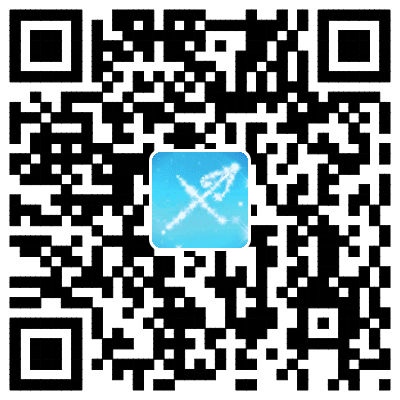
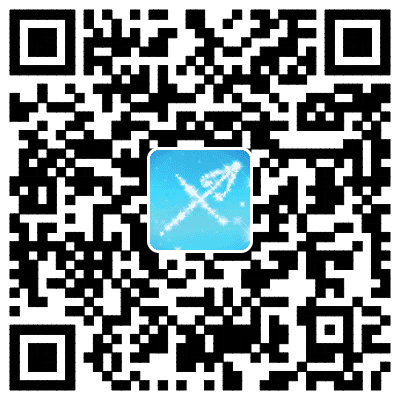
修改阳光电影下载地址二维码

diff --git a/MovieHeaven/download.html b/MovieHeaven/download.html
@@ -7,20 +7,20 @@
   <div style="text-align: center;">
     <h2>阳光电影Android客户端下载</h2>
 
-    <p id="notice">
+    <p id="notice" style="display: none;">
       请点击右上角的菜单，选择“在浏览器中打开”，之后就可以下载啦！
     </p>
 
     <p>这是电影天堂的非官方Android客户端，通过解析其网页获取影片数据，提供了自定义菜单、搜索、收藏影片等功能。项目源代码托管于<a href="https://github.com/lingzhuzi/MovieHeaven/">Github</a>。</p>
 
-    <h2 id="btn_download"><a href="https://raw.githubusercontent.com/lingzhuzi/MovieHeaven/master/release/MovieHeaven.apk">立即下载</a></h2>
+    <h2 id="btn_download" style="display: none;"><a href="https://raw.githubusercontent.com/lingzhuzi/MovieHeaven/master/release/MovieHeaven.apk">立即下载</a></h2>
 
-    <p id="erweima">
+    <div id="erweima" style="display: none;">
       <p>
-        <label>或扫描下方的二维码下载到手机</label>
+        或扫描下方的二维码下载到手机
       </p>
       <img src="download_address.png">
-    </p>
+    </div>
   </div>
 
   <script type="text/javascript" src="../javascripts/jquery-2.1.3.min.js"></script>
@@ -28,19 +28,17 @@
     $(function(){
       if(isWeixin()){
         $("#notice").show();
-        $("#btn_download").hide();
       } else {
-        $("#notice").hide();
         $("#btn_download").show();
       }
 
-      if(isMobile()){
-        $("#erweima").hide();
+      if(!isMobile()){
+        $("#erweima").show();
       }
 
       function isMobile(){
-        var mobileAgent = ["iphone", "ipod", "ipad", "android", "mobile", "blackberry", "webos", "incognito", "webmate", "bada", "nokia", "lg", "ucweb", "skyfire", "micromessenger"];
-
+        var mobileAgent = ["iphone", "ipod", "ipad", "android", "mobile", "micromessenger", "blackberry",
+        "webos", "incognito", "webmate", "bada", "nokia", "lg", "ucweb", "skyfire"];
         var browser = navigator.userAgent.toLowerCase();
         for (var i=0; i<mobileAgent.length; i++){
           if (browser.indexOf(mobileAgent[i])!=-1){
